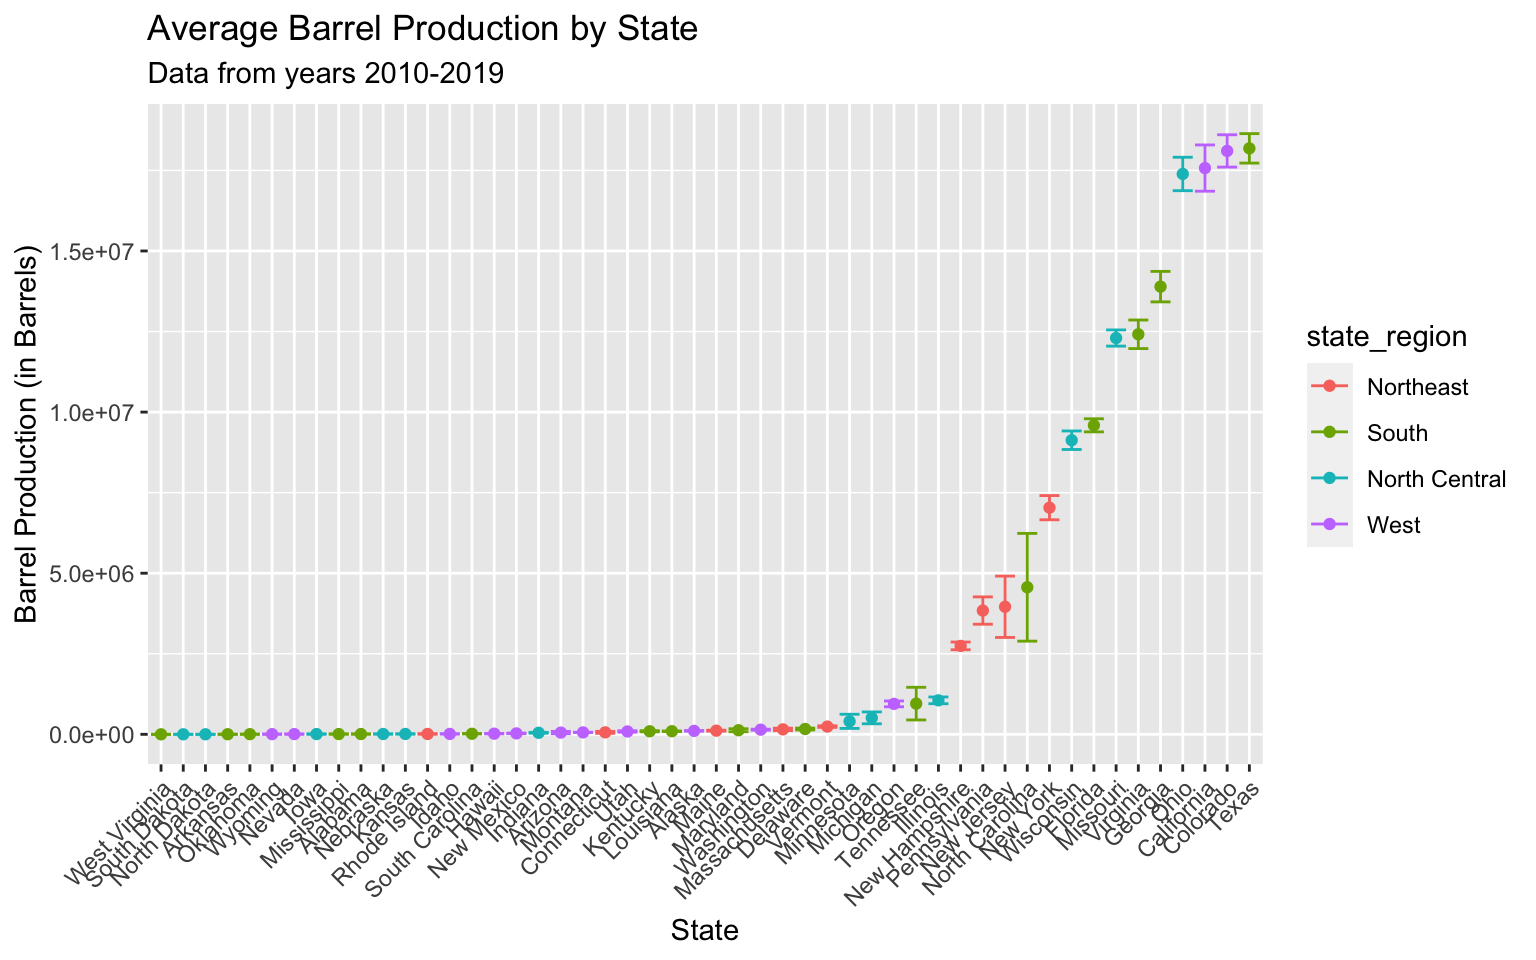
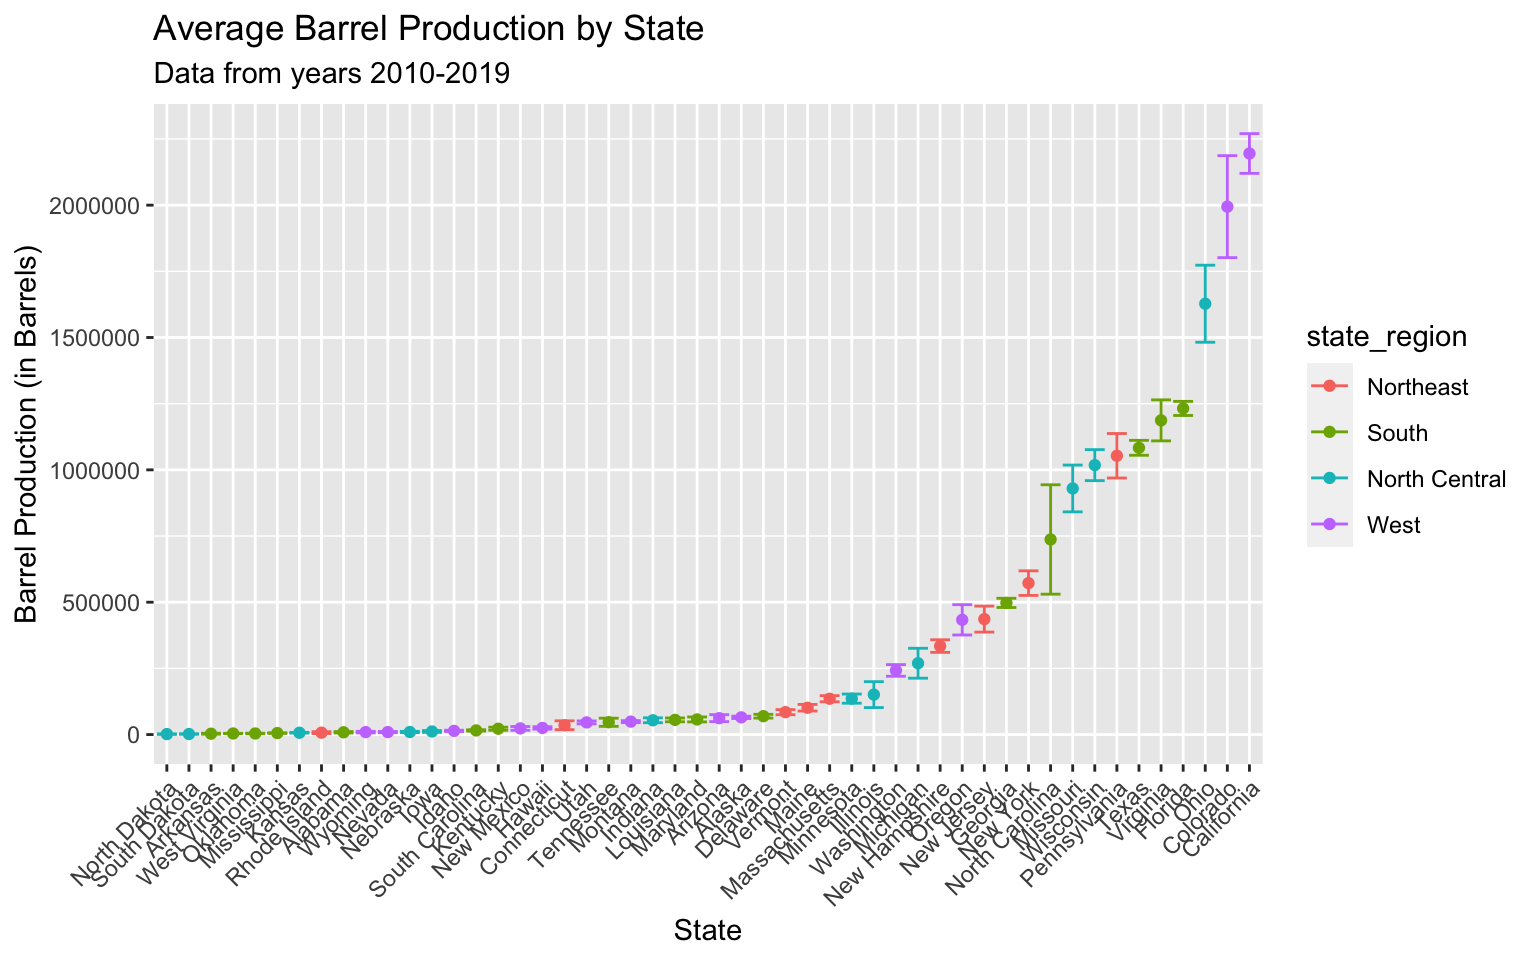
edits to the production page

diff --git a/production.html b/production.html
@@ -471,7 +471,7 @@ div.tocify {
 #   layout( # adding a title 
 #     title = &quot;Barrel production over the years by state&quot;)
 
-tax_cans_df %&gt;% # first we need to pivot the data 
+tax_barrels_df %&gt;% # first we need to pivot the data 
   filter(state != &quot;total&quot;) %&gt;%
   pivot_longer(
     c(`2008`:`2019`),
@@ -480,12 +480,15 @@ tax_cans_df %&gt;% # first we need to pivot the data
   )%&gt;%
   filter(year &gt; 2009) %&gt;% # we want to only focus on years 2010-2019
   group_by(state) %&gt;%
+  mutate(
+    barrels_log = barrels
+  ) %&gt;% 
   summarize(
-    mean_barrel = mean(barrels, na.rm = TRUE), # finding the mean barrels
-    CI_lower = mean(barrels, na.rm = TRUE) - 
-      1.96 * sd(barrels, na.rm = TRUE)/sqrt(length(barrels)), # finding the lower CI
-    CI_upper = mean(barrels, na.rm = TRUE) + 
-      1.96 * sd(barrels,na.rm = TRUE)/sqrt(length(barrels)) # finding the upper CI
+    mean_barrel = mean(barrels_log, na.rm = TRUE), # finding the mean barrels
+    CI_lower = mean(barrels_log, na.rm = TRUE) - 
+      1.96 * sd(barrels_log, na.rm = TRUE)/sqrt(length(barrels_log)), # finding the lower CI
+    CI_upper = mean(barrels_log, na.rm = TRUE) + 
+      1.96 * sd(barrels_log,na.rm = TRUE)/sqrt(length(barrels_log)) # finding the upper CI
   ) %&gt;%
   right_join(., region, by = &quot;state&quot;) %&gt;% # joining the regions in so we can color the graph
   mutate(
@@ -560,6 +563,42 @@ tax_cans_df %&gt;%
     x = &quot;State&quot;
   )</code></pre>
 <p><img src="production_files/figure-html/unnamed-chunk-2-1.png" width="768" /></p>
+<pre class="r"><code>tax_cans_df %&gt;% # first we need to pivot the data 
+  filter(state != &quot;total&quot;) %&gt;%
+  pivot_longer(
+    c(`2008`:`2019`),
+    names_to = &quot;year&quot;,
+    values_to = &quot;barrels&quot;
+  )%&gt;%
+  filter(year &gt; 2009) %&gt;% # we want to only focus on years 2010-2019
+  group_by(state) %&gt;%
+  mutate(
+    barrels_log = log(barrels)
+  ) %&gt;% 
+  summarize(
+    mean_barrel = mean(barrels_log, na.rm = TRUE), # finding the mean barrels
+    CI_lower = mean(barrels_log, na.rm = TRUE) - 
+      1.96 * sd(barrels_log, na.rm = TRUE)/sqrt(length(barrels_log)), # finding the lower CI
+    CI_upper = mean(barrels_log, na.rm = TRUE) + 
+      1.96 * sd(barrels_log,na.rm = TRUE)/sqrt(length(barrels_log)) # finding the upper CI
+  ) %&gt;%
+  right_join(., region, by = &quot;state&quot;) %&gt;% # joining the regions in so we can color the graph
+  mutate(
+    state = abbr2state(state), # making the states into names instead of abbs
+    state = fct_reorder(state, mean_barrel) # ordering the states according to mean_barrels
+  ) %&gt;%  # plotting!!
+  ggplot(aes(x = state, y = mean_barrel,color=state_region)) + 
+  geom_point() + 
+  geom_errorbar(aes(ymin = CI_lower, ymax = CI_upper)) + 
+  theme(axis.text.x = element_text(angle = 45, hjust = 1)) + 
+  #theme(legend.position = &quot;none&quot;)  +
+  labs(
+    title = &quot;Average Can and Bottle Production by State&quot;,
+    subtitle = &quot;Data from years 2010-2019 log transformation &quot;,
+    y = &quot;Can and Bottle Production (in Barrels)&quot;,
+    x = &quot;State&quot;
+  )</code></pre>
+<p><img src="production_files/figure-html/unnamed-chunk-2-2.png" width="768" /></p>
 <div id="bottles-and-cans-analysis" class="section level3">
 <h3>Bottles and Cans Analysis:</h3>
 <hr />
@@ -568,9 +607,18 @@ tax_cans_df %&gt;%
 <div id="shipments-of-malt-beverages" class="section level2">
 <h2>Shipments of Malt Beverages</h2>
 <p>This is the amount of shipments of the United States has made of malt beverages in barrel units. The moving picture shows years from 2010 to 2019 and will continuously repeat. This data comes from the American Beer Distributors.</p>
-<pre class="r"><code>sm3 = state_df %&gt;% filter(state != &quot;District of Columbia&quot;) %&gt;% filter(year &gt; 2009)
+<pre class="r"><code># moving the rank so there isn&#39;t a gap where DC used to be 
+for(i in 1:length(state_df$state)) {
+  if(state_df$state[i] == &quot;Wyoming&quot;) {state_df$rank_3[i] = 50}
+}
 
-static_plot&lt;-ggplot(sm3,aes(rank_3,group=state,fill=as.factor(state),color=as.factor(state))) +
+region_name = tibble(state = state.name, state_region= state.region) 
+sm3 = state_df %&gt;% 
+  filter(state != &quot;District of Columbia&quot;) %&gt;% 
+  filter(year &gt; 2009) %&gt;% 
+  left_join(., region_name)
+
+static_plot&lt;-ggplot(sm3,aes(rank_3,group=state,fill=state_region,color=state_region)) +
  geom_tile(aes(y = shipments/2,height = shipments, width = 0.9), alpha = 0.8, color = NA) +
  geom_text(aes(y = 0, label = paste(state, &#39; &#39;)), vjust = 0.2, hjust = 1, size = 3) +
  geom_text(aes(y = shipments, label = paste(&#39; &#39;,shipments)), hjust=0, size = 3) +
